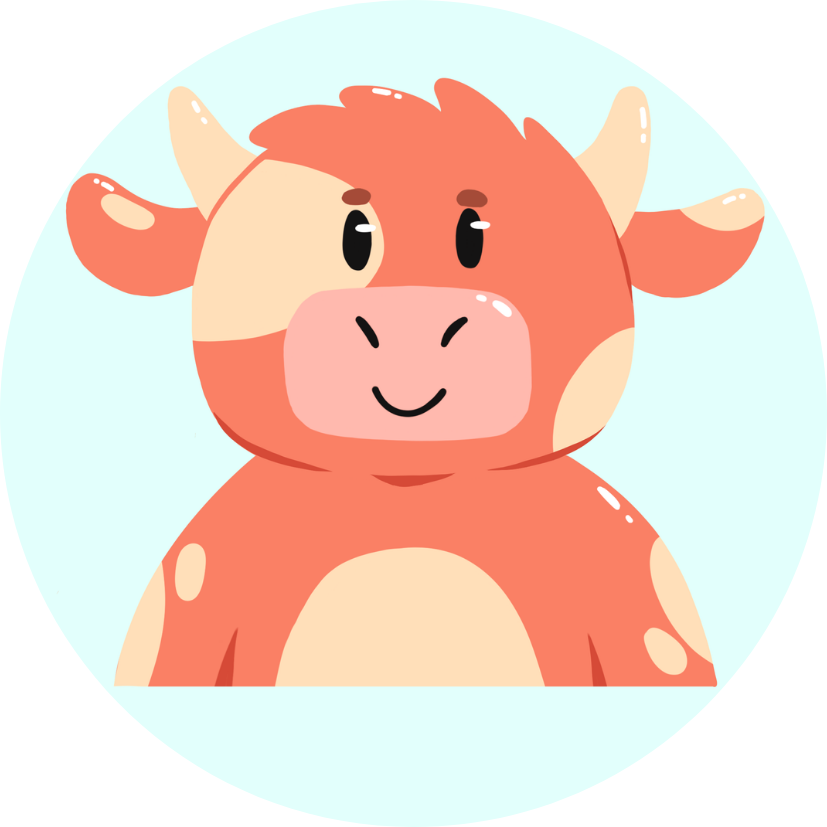
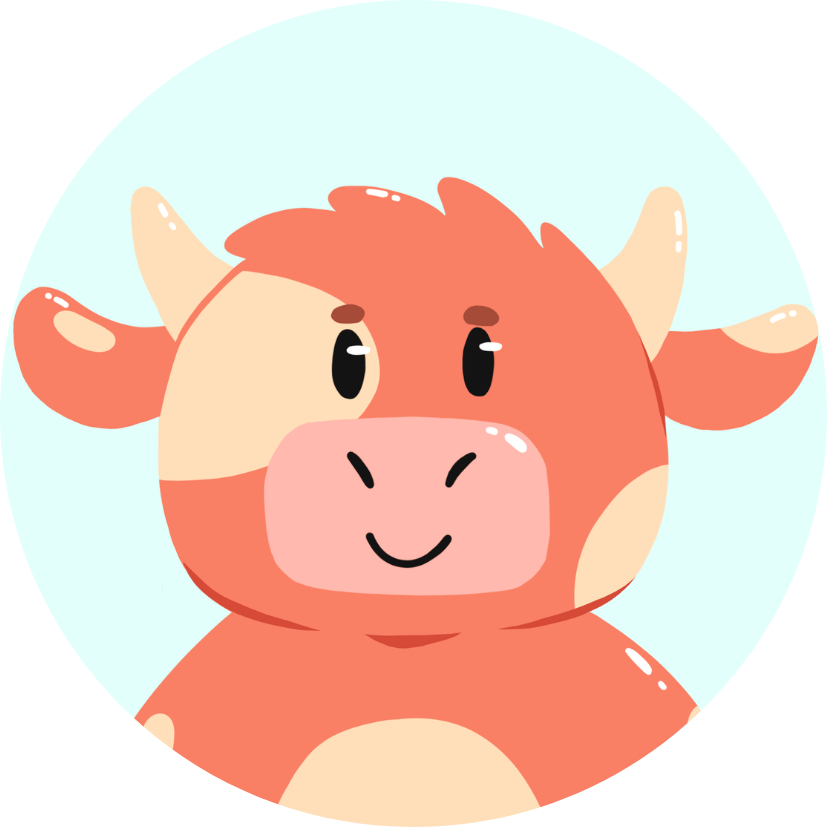
:sparkles: New version

diff --git a/flutter_app/lib/pages/app_pages/dashboard/dashboard_page.dart b/flutter_app/lib/pages/app_pages/dashboard/dashboard_page.dart
@@ -39,8 +39,7 @@ import '../Profile/error_reports_page.dart';
 import '../Profile/product_review_page.dart';
 import '../settings/settings_page.dart';
 
-/// Merges the former "Accueil" and "Profil" tabs into a single home screen:
-/// vegan-since counter + impact stats, partner promos, badges and the
+/// Vegan-since counter + impact stats, partner promos, badges and the
 /// account shortcuts that used to live on the Profil tab.
 class DashboardPage extends StatefulWidget {
   const DashboardPage({super.key});
